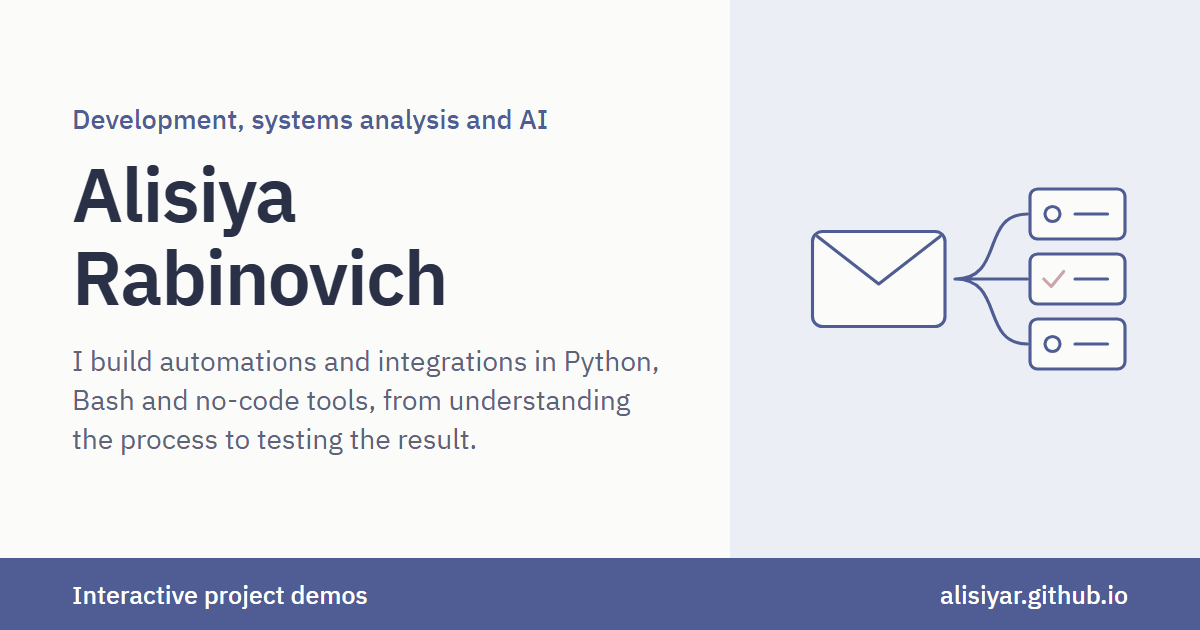
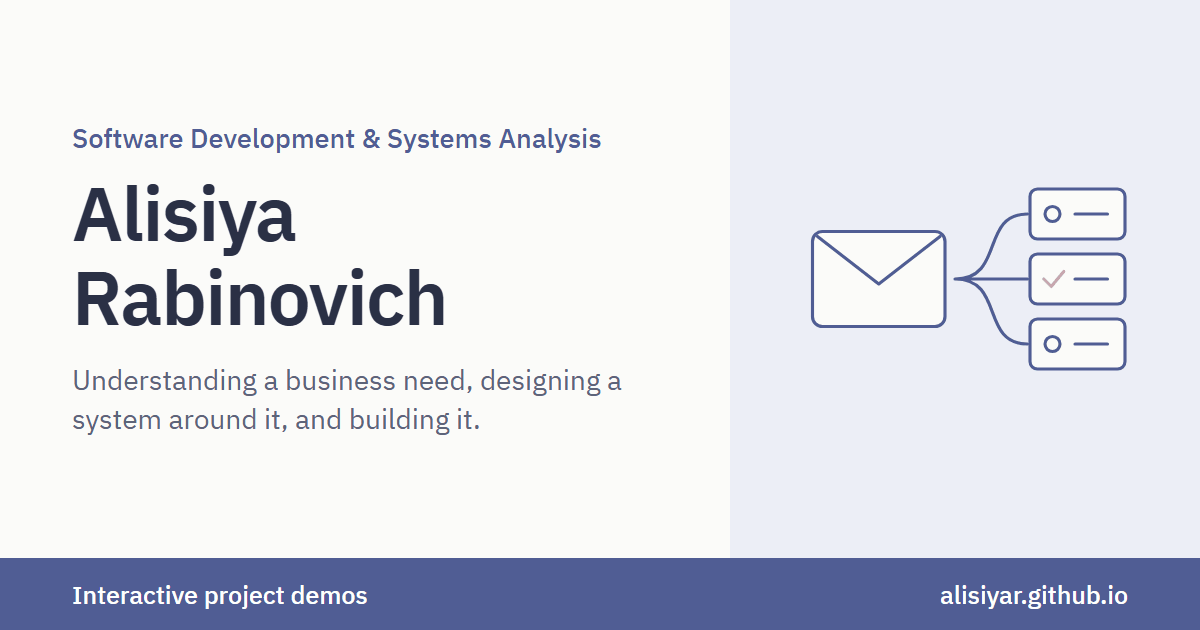
Update headline, intro, about and Heido problem text

Changed region(s): [[0.0617, 0.5429, 0.555, 0.7238], [0.0617, 0.2714, 0.37, 0.5127], [0.0617, 0.181, 0.5242, 0.2413]]

diff --git a/js/content.js b/js/content.js
@@ -4,12 +4,12 @@
 window.SITE = {
   name: { he: "אליסיה רבינוביץ", en: "Alisiya Rabinovich" },
   headline: {
-    he: "פיתוח, ניתוח מערכות ו-AI",
-    en: "Development, systems analysis and AI"
+    he: "פיתוח תוכנה וניתוח מערכות",
+    en: "Software Development & Systems Analysis"
   },
   intro: {
-    he: "אני בונה אוטומציות ואינטגרציות ב-Python, ב-Bash ובכלי No-Code, מהבנת התהליך ועד בדיקת התוצאה. תואר ראשון בניהול מערכות מידע (ממוצע 89), בהתמחות סייבר.",
-    en: "I build automations and integrations in Python, Bash and no-code tools, from understanding the process to testing the result. B.A. in Management Information Systems (GPA 89), with a cybersecurity specialization."
+    he: "תיק העבודות שלי מרכז פרויקטים בפיתוח תוכנה ובניתוח מערכות, עם דמואים אינטראקטיביים והצצה להחלטות התכנון שמאחורי כל פרויקט. כבוגרת ניהול מערכות מידע, מעניין אותי במיוחד איך צורך עסקי הופך למערכת עובדת.",
+    en: "My portfolio brings together projects in software development and systems analysis, with interactive demos and a look at the design decisions behind each project. As a Management Information Systems graduate, I’m especially interested in how a business need becomes a working system."
   },
   links: {
     github: "https://github.com/AlisiyaR",
@@ -61,8 +61,14 @@ window.SITE = {
         lookLabel: { he: "על המיילים בדמו", en: "About the emails" },
         look: { he: "כל המיילים בדמו סווגו במערכת האמיתית במהלך הבדיקות, וארבעה מהם מסומנים כבדיקות של מקרי קצה. הסיווג נעשה על ידי AI, ולכן התוצאה עשויה להשתנות בין הרצות.", en: "Every email in this demo was classified by the real system during testing, and four are marked as edge-case tests. Because an AI does the classification, results can vary between runs." },
         problem: {
-          he: ["בצוותי תמיכה רבים ממיינים כל מייל ידנית. זה איטי ולא אחיד, ופנייה דחופה יכולה לחכות מאחורי בקשות שגרתיות.", "הצורך העסקי רחב יותר ממיון: אפשר לייעל את כל תהליך קבלת הפניות. מענה מהיר במייל יכול לעודד לקוחות לבחור בו במקום בטלפון, ב-WhatsApp, בפקס או בדואר. בטווח הארוך, ריכוז התקשורת בערוץ אחד יכול לחסוך זמן לצוות התמיכה וכסף ללקוח."],
-          en: ["Many support teams sort every email by hand. It is slow and inconsistent, and an urgent issue can wait behind routine requests.", "The business need goes beyond sorting: the whole intake process can be more efficient. Fast handling by email can encourage customers to choose it over phone calls, WhatsApp, fax or post. Over time, moving communication to one channel could save the support team time and the customer money."]
+          he: [
+            "הרעיון ל-Heido נולד מהניסיון שלי בתמיכת לקוחות. פניות הגיעו בטלפון, ב-WhatsApp ובפקס. העובדים היו צריכים לתעד כל פנייה, להעריך את הדחיפות שלה ולהחליט איזה צוות יטפל בה. עם תחלופה גבוהה של עובדים, היה קשה לשמור על אחידות בהחלטות האלה. פנייה שנשלחה לצוות הלא נכון הייתה צריכה להיבדק ולעבור ניתוב מחדש, מה שהוסיף עומס על הצוות והשאיר את הלקוח ממתין זמן רב יותר. גם בעיה דחופה יכלה לחכות מאחורי בקשות שגרתיות אם ההשפעה שלה לא הייתה ברורה במבט ראשון.",
+            "ראיתי הזדמנות לשפר את כל התהליך, החל מהמייל. לקוח יוכל לתאר את הבעיה פעם אחת ולקבל מספר פנייה, בזמן שהמערכת מסכמת את הפנייה, מעריכה את העדיפות שלה ומנתבת אותה לצוות המתאים. אם המייל יהפוך לדרך מהירה ואמינה יותר לקבל עזרה, ייתכן שיותר לקוחות יעדיפו אותו על פני שיחה או שליחת הודעת WhatsApp, פקס או מכתב. לאורך זמן, זה יכול להפחית את העבודה הידנית של צוות התמיכה ולחסוך ללקוחות את הזמן ואת ההוצאה של מעקב אחר הפנייה."
+          ],
+          en: [
+            "The idea for Heido came from my experience in customer support. Requests came in by phone, WhatsApp, and fax. Employees had to log each one, assess its urgency, and decide which team should handle it. With frequent staff turnover, it was difficult to keep those decisions consistent. A request sent to the wrong team had to be reviewed and routed again, adding to the team’s workload and leaving the customer waiting longer. An urgent issue could also sit behind routine requests if its impact wasn’t clear at first glance.",
+            "I saw an opportunity to improve the whole process, starting with email. A customer could describe the issue once and receive a ticket number, while the system summarized the request, assessed its priority, and routed it to the right team. If email became a faster, more reliable way to get help, more customers might choose it over calling or sending a WhatsApp message, fax, or letter. Over time, that could reduce manual work for the support team and save customers the time and expense of following up."
+          ]
         },
         did: {
           he: [
@@ -297,13 +303,21 @@ window.SITE = {
 
   about: {
     he: [
-      "אני אוהבת להבין איך מערכות ותהליכים עובדים, למצוא איפה הם נתקעים ולבנות פתרונות טובים יותר. ב-Bynet Semech נכנסתי לתפקיד שלא היה מאויש ובניתי את תהליכי העבודה והנהלים שלו מאפס, תוך כדי התואר.",
-      "התואר והתמחות הסייבר נתנו לי בסיס בתכנות מונחה עצמים, SQL, Linux ורשתות. אני לומדת מהר ובאופן עצמאי, ופתוחה לתפקידי ג'וניור בפיתוח, באוטומציה, ב-AI ובניתוח מערכות."
+      "פיתוח תוכנה וניתוח מערכות היו המקצועות האהובים עליי בתואר הראשון בניהול מערכות מידע. לצד יסודות התכנות למדתי ניתוח מערכות, עיצוב חוויית משתמש, ניתוח נתונים, אבטחת מידע וניהול פרויקטים. יחד, המקצועות האלה עיצבו את הדרך שבה אני ניגשת למערכת חדשה. אני מתחילה ממה שהמשתמש מנסה להשיג, ואז בודקת אילו נתונים הוא צריך ולמי צריכה להיות גישה אליהם. משם אני מתכננת את הפרויקט ומחלקת את העבודה לשלבי פיתוח.",
+      "במהלך הלימודים עבדתי בתמיכה טכנית ותפעולית ב-Bynet Semech. זיהיתי דפוסים בפניות חוזרות ופיתחתי נהלים לטיפול בהן בין הצוותים. הניסיון הזה עדיין משפיע על הדרך שבה אני ניגשת לפרויקטים שלי. אני רוצה להבין איך אנשים עובדים בפועל, איפה הם נתקלים בקשיים, ומה המערכת צריכה לעשות כדי לעזור."
     ],
     en: [
-      "I enjoy understanding how systems and processes work, finding where they break and building better solutions. At Bynet Semech, I stepped into an unstaffed role and built its workflows and procedures from scratch while studying for my degree.",
-      "My degree and cybersecurity specialization gave me a foundation in object-oriented programming, SQL, Linux and networking. I learn fast and independently, and I'm open to junior roles in development, automation, AI and systems analysis."
+      "Software development and systems analysis were my favorite subjects during my B.A. in Management Information Systems. Alongside programming fundamentals, I studied systems analysis, UX design, data analysis, information security, and project management. Together, these subjects shaped how I approach a new system. I start with what the user is trying to accomplish, then consider what data they need and who should have access to it. From there, I plan the project and organize the work into development phases.",
+      "While studying, I worked in technical and operational support at Bynet Semech. I noticed patterns in recurring requests and developed procedures for handling them across teams. That experience still influences how I approach my own projects. I want to understand how people actually do their work, where they run into difficulties, and what a system needs to do to help."
     ]
+  },
+  looking: {
+    he: "אני מחפשת תפקיד ג'וניור בפיתוח תוכנה או בניתוח מערכות. מעניינות אותי במיוחד הזדמנויות שבהן אוכל לעבוד עם משתמשים כדי להבין צורך עסקי, לעזור לעצב את הדרישות ולהישאר מעורבת בזמן שהתוכנה נבנית.",
+    en: "I’m looking for a junior role in software development or systems analysis. I’m especially interested in opportunities where I can work with users to understand a business need, help shape the requirements, and stay involved as the software is built."
+  },
+  closing: {
+    he: "אם אתם מגייסים לתפקיד ג'וניור בפיתוח תוכנה או בניתוח מערכות, אשמח לשמוע על הצוות ועל מה שאתם בונים.",
+    en: "If you’re hiring for a junior software development or systems analysis role, I’d be happy to hear about the team and what you’re building."
   },
   how: [
     { label: { he: "מתחילה מהבעיה", en: "I start with the problem" },
@@ -344,9 +358,8 @@ window.SITE = {
       note: { he: "סריקת רשתות, בדיקות חדירה, מיפוי פגיעויות והדמיית תקיפות. במהלך ההתמחות בניתי שלושה כלי אוטומציה ב-Bash.", en: "Network scanning, penetration testing, vulnerability mapping and attack simulation. I built three Bash automation tools during the specialization." } }
   ],
   site: [
-    { label: { he: "בלי מפתחות API", en: "No API keys" }, text: { he: "אתר סטטי לא יכול להסתיר סוד, ולכן אף דמו לא משתמש במפתח. מזג האוויר מגיע מ-Open-Meteo, שלא דורש מפתח.", en: "A static site cannot hide a secret, so no demo uses a key. The weather comes from Open-Meteo, which needs none." } },
-    { label: { he: "בלי סריקות אמיתיות", en: "No real scans" }, text: { he: "המסוף מציג תוצאות של רשת בדיונית, ותשובות ה-AI נשמרו מהבדיקות.", en: "The terminal shows results for a fictional network, and the AI answers were saved from testing." } },
-    { label: { he: "איך נבנה", en: "How it was made" }, text: { he: "HTML, CSS ו-JavaScript בלי ספריות, בעזרת Claude.", en: "Plain HTML, CSS and JavaScript with no framework, with the help of Claude." } }
+    { label: { he: "תיק העבודות", en: "The portfolio" }, text: { he: "בניתי את תיק העבודות הדו-לשוני הזה ב-HTML, ב-CSS וב-JavaScript, בעזרת Claude. הדמואים מאפשרים למבקרים להכיר את העבודה ישירות בדפדפן.", en: "I built this bilingual portfolio with HTML, CSS, and JavaScript, with assistance from Claude. The project demos let visitors explore the work directly in their browser." } },
+    { label: { he: "הדמואים", en: "The demos" }, text: { he: "דמו מזג האוויר משתמש בנתונים חיים מ-Open-Meteo. הדמו של Heido משתמש בתשובות של המודל שנשמרו במהלך הבדיקות, כך שאפשר להשוות את ההחלטות שלכם לתוצאות שבדקתי. דמו הסייבר משתמש ברשת מדומה.", en: "The weather demo uses live data from Open-Meteo. The Heido demo uses model responses saved during testing, so you can compare your decisions with the results I evaluated. The cybersecurity demo uses a simulated network." } }
   ],
   experience: [
     { when: "2023–2026", what: { he: "נציגת Back Office, תמיכה טכנית ותפעולית, Bynet Semech (משרה חלקית)", en: "Back Office Representative, technical and operational support, Bynet Semech (part-time)" },

diff --git a/js/site.js b/js/site.js
@@ -2,8 +2,8 @@
   const S = window.SITE;
   const LOCAL = ["localhost", "127.0.0.1"].includes(location.hostname); // באתר המפורסם פסקאות זמניות ב"עליי" מוסתרות
   const UI = {
-    he: { projects: "פרויקטים", about: "עליי", how: "איך אני עובדת", skills: "כישורים", edu: "השכלה", exp: "ניסיון תעסוקתי", site: "איך האתר נבנה", contact: "יצירת קשר", github: "GitHub", linkedin: "LinkedIn", cv: "קורות חיים", email: "אימייל", copy: "העתקת כתובת המייל", copied: "הועתק", manual: "הכתובת סומנה, העתיקו עם Ctrl+C", try: "לנסות את הדמו", view: "לעמוד הפרויקט", soon: "הדמו בהכנה", back: "לכל הפרויקטים", full: "פתיחה בחלון מלא", demo: "דמו", missing: "הפרויקט לא נמצא", add: "קישור יתווסף", light: "מצב בהיר", dark: "מצב כהה", other: "English", nav: "ניווט", menu: "תפריט", see: "לפרויקטים", shows: "מה זה מראה", result: "תוצאה", next: "הפרויקט הבא", more: "רוצים לדעת עוד?", skip: "דילוג לתוכן", task: "משימה", priority: "עדיפות", assigned: "עובד", type: "סוג", role: "התפקיד שלי", when: "מתי", glance: "במבט אחד", look: "על הדמו", problem: "הבעיה", goal: "המטרה", did: "מה עשיתי", trace: "דרישה אחת, מהצורך ועד המשימות", decisions: "החלטות", instead: "במקום", why: "למה", source: "המקור", tested: "איך בדקתי", catacc: "קטגוריה ועובד", prio: "עדיפות", version: "גרסת פרומפט", hit: "נכון", miss: "טעות", limits: "תקלות, מגבלות והצעד הבא", shotsTitle: "צילומים", diagrams: "תרשימי UML", video: "סרטון של אב-הטיפוס", close: "סגירה", prev: "הקודם", nextImg: "הבא" },
-    en: { projects: "Projects", about: "About", how: "How I work", skills: "Skills", edu: "Education", exp: "Work experience", site: "How this site was built", contact: "Contact", github: "GitHub", linkedin: "LinkedIn", cv: "CV", email: "Email", copy: "Copy email address", copied: "Copied", manual: "Address selected, copy with Ctrl+C", try: "Try the demo", view: "View project", soon: "Demo in progress", back: "All projects", full: "Open full page", demo: "Demo", missing: "Project not found", add: "Link coming", light: "Light mode", dark: "Dark mode", other: "עברית", nav: "Navigation", menu: "Menu", see: "See the projects", shows: "What it shows", result: "Result", next: "Next project", more: "Want to know more?", skip: "Skip to content", task: "Task", priority: "Priority", assigned: "Assigned to", type: "Type", role: "My role", when: "When", glance: "At a glance", look: "About the demo", problem: "The problem", goal: "The goal", did: "What I did", trace: "One requirement, from the need to the tasks", decisions: "Decisions", instead: "Instead of", why: "Why", source: "Source", tested: "How I tested it", catacc: "Category and employee", prio: "Priority", version: "Prompt version", hit: "Right", miss: "Missed", limits: "Problems, limits and next steps", shotsTitle: "Screenshots", diagrams: "UML diagrams", video: "Video of the prototype", close: "Close", prev: "Previous", nextImg: "Next" }
+    he: { projects: "פרויקטים", about: "עליי", how: "איך אני עובדת", skills: "כישורים", edu: "השכלה", exp: "ניסיון תעסוקתי", site: "על האתר", looking: "מה אני מחפשת", contact: "יצירת קשר", github: "GitHub", linkedin: "LinkedIn", cv: "קורות חיים", email: "אימייל", copy: "העתקת כתובת המייל", copied: "הועתק", manual: "הכתובת סומנה, העתיקו עם Ctrl+C", try: "לנסות את הדמו", view: "לעמוד הפרויקט", soon: "הדמו בהכנה", back: "לכל הפרויקטים", full: "פתיחה בחלון מלא", demo: "דמו", missing: "הפרויקט לא נמצא", add: "קישור יתווסף", light: "מצב בהיר", dark: "מצב כהה", other: "English", nav: "ניווט", menu: "תפריט", see: "לפרויקטים", shows: "מה זה מראה", result: "תוצאה", next: "הפרויקט הבא", more: "רוצים לדעת עוד?", skip: "דילוג לתוכן", task: "משימה", priority: "עדיפות", assigned: "עובד", type: "סוג", role: "התפקיד שלי", when: "מתי", glance: "במבט אחד", look: "על הדמו", problem: "הבעיה", goal: "המטרה", did: "מה עשיתי", trace: "דרישה אחת, מהצורך ועד המשימות", decisions: "החלטות", instead: "במקום", why: "למה", source: "המקור", tested: "איך בדקתי", catacc: "קטגוריה ועובד", prio: "עדיפות", version: "גרסת פרומפט", hit: "נכון", miss: "טעות", limits: "תקלות, מגבלות והצעד הבא", shotsTitle: "צילומים", diagrams: "תרשימי UML", video: "סרטון של אב-הטיפוס", close: "סגירה", prev: "הקודם", nextImg: "הבא" },
+    en: { projects: "Projects", about: "About", how: "How I work", skills: "Skills", edu: "Education", exp: "Work experience", site: "About this site", looking: "Looking for", contact: "Contact", github: "GitHub", linkedin: "LinkedIn", cv: "CV", email: "Email", copy: "Copy email address", copied: "Copied", manual: "Address selected, copy with Ctrl+C", try: "Try the demo", view: "View project", soon: "Demo in progress", back: "All projects", full: "Open full page", demo: "Demo", missing: "Project not found", add: "Link coming", light: "Light mode", dark: "Dark mode", other: "עברית", nav: "Navigation", menu: "Menu", see: "See the projects", shows: "What it shows", result: "Result", next: "Next project", more: "Want to know more?", skip: "Skip to content", task: "Task", priority: "Priority", assigned: "Assigned to", type: "Type", role: "My role", when: "When", glance: "At a glance", look: "About the demo", problem: "The problem", goal: "The goal", did: "What I did", trace: "One requirement, from the need to the tasks", decisions: "Decisions", instead: "Instead of", why: "Why", source: "Source", tested: "How I tested it", catacc: "Category and employee", prio: "Priority", version: "Prompt version", hit: "Right", miss: "Missed", limits: "Problems, limits and next steps", shotsTitle: "Screenshots", diagrams: "UML diagrams", video: "Video of the prototype", close: "Close", prev: "Previous", nextImg: "Next" }
   };
   const store = {
     get(k) { try { return localStorage.getItem(k); } catch { return null; } },
@@ -205,12 +205,13 @@
           links(), h("a", { class: "btn main go", href: "#projects" }, u.see, icon("down")))),
       section("projects", card(S.projects[0], 0), h("div", { class: "cards" }, S.projects.slice(1).map((p, i) => card(p, i + 1)))),
       section("about", S.about[lang].filter(x => LOCAL || !x.startsWith("[")).map(x => h("p", {}, txt(x)))),
+      S.looking ? section("looking", h("p", {}, txt(S.looking))) : null,
       section("how", h("dl", {}, (S.how || []).flatMap(s => [h("dt", {}, tr(s.label)), h("dd", {}, txt(s.text))]))),
       section("skills", S.proofNote ? h("p", { class: "note" }, txt(S.proofNote)) : null, h("dl", {}, S.skills.flatMap(s => [h("dt", {}, tr(s.label)), h("dd", {}, skill(s.items))]))),
       section("edu", timeline(S.education)),
       section("exp", timeline(S.experience)),
       section("site", h("dl", {}, (S.site || []).flatMap(s => [h("dt", {}, tr(s.label)), h("dd", {}, txt(s.text))]))),
-      section("contact", links()));
+      section("contact", S.closing ? h("p", { class: "closing" }, txt(S.closing)) : null, links()));
   }
 
   const jump = () => { if (location.hash) document.getElementById(location.hash.slice(1))?.scrollIntoView({ behavior: "instant" }); };

diff --git a/js/edit.js b/js/edit.js
@@ -38,7 +38,9 @@
     pair("איך אני עובדת", `how.${i}.text`, `פירוט ${i + 1}`, s.text);
   });
   pair("כישורים", "proofNote", "הערה מעל הרשימה", S.proofNote);
-  S.site.forEach((s, i) => { pair("איך האתר נבנה", `site.${i}.label`, `נושא ${i + 1}`, s.label); pair("איך האתר נבנה", `site.${i}.text`, `פירוט ${i + 1}`, s.text); });
+  pair("עליי", "looking", "מה אני מחפשת", S.looking);
+  pair("יצירת קשר", "closing", "משפט סיום", S.closing);
+  S.site.forEach((s, i) => { pair("על האתר", `site.${i}.label`, `נושא ${i + 1}`, s.label); pair("על האתר", `site.${i}.text`, `פירוט ${i + 1}`, s.text); });
   S.skills.forEach((s, i) => {
     pair("כישורים", `skills.${i}.label`, `נושא ${i + 1}`, s.label);
     flat("כישורים", `skills.${i}.items`, `פירוט ${i + 1}`, s, "items");
@@ -48,7 +50,7 @@
     pair(g, `${k}.${i}.what`, `${what} ${i + 1}`, s.what);
     if (s.note) pair(g, `${k}.${i}.note`, `פירוט ${i + 1}`, s.note);
   });
-  const NAMES = { projects: "כותרת: פרויקטים", about: "כותרת: עליי", how: "כותרת: איך אני עובדת", skills: "כותרת: כישורים", edu: "כותרת: השכלה", exp: "כותרת: ניסיון", contact: "כותרת: יצירת קשר", cv: "כפתור: קורות חיים", see: "כפתור: לפרויקטים", try: "כפתור: דמו", back: "קישור: חזרה", full: "קישור: חלון מלא", demo: "כותרת: דמו" };
+  const NAMES = { projects: "כותרת: פרויקטים", about: "כותרת: עליי", how: "כותרת: איך אני עובדת", looking: "כותרת: מה אני מחפשת", skills: "כותרת: כישורים", edu: "כותרת: השכלה", exp: "כותרת: ניסיון", contact: "כותרת: יצירת קשר", cv: "כפתור: קורות חיים", see: "כפתור: לפרויקטים", try: "כפתור: דמו", back: "קישור: חזרה", full: "קישור: חלון מלא", demo: "כותרת: דמו" };
   for (const k in NAMES) add("כותרות וכפתורים", `ui.${k}`, NAMES[k], () => ({ he: UI.he[k], en: UI.en[k] }), (l, v) => { UI[l][k] = v; });
 
   // שינויים שמורים. אם הטקסט בקובץ כבר התעדכן, השינוי הישן נזרק.

diff --git a/index.html b/index.html
@@ -4,13 +4,13 @@
 <meta charset="utf-8">
 <meta name="viewport" content="width=device-width, initial-scale=1">
 <meta name="theme-color" content="#505d94">
-<title>Alisiya Rabinovich | Development, systems analysis and AI</title>
-<meta name="description" content="I build automations and integrations in Python, Bash and no-code tools, from understanding the process to testing the result. Portfolio with interactive project demos.">
+<title>Alisiya Rabinovich | Software Development &amp; Systems Analysis</title>
+<meta name="description" content="Software development and systems analysis: understanding a business need, designing a system around it, and building it. Portfolio with interactive project demos.">
 <link rel="canonical" href="https://alisiyar.github.io/">
 <meta property="og:type" content="website">
 <meta property="og:site_name" content="Alisiya Rabinovich">
-<meta property="og:title" content="Alisiya Rabinovich | Development, systems analysis and AI">
-<meta property="og:description" content="I build automations and integrations in Python, Bash and no-code tools, from understanding the process to testing the result. Portfolio with interactive project demos.">
+<meta property="og:title" content="Alisiya Rabinovich | Software Development &amp; Systems Analysis">
+<meta property="og:description" content="Software development and systems analysis: understanding a business need, designing a system around it, and building it. Portfolio with interactive project demos.">
 <meta property="og:url" content="https://alisiyar.github.io/">
 <meta property="og:image" content="https://alisiyar.github.io/assets/og/home.png">
 <meta property="og:image:width" content="1200">

diff --git a/css/style.css b/css/style.css
@@ -37,6 +37,7 @@ button:hover{background:var(--panel);color:var(--ink)}
 
 /* המשחקון של Heido */
 .go{margin-top:1.1rem}
+.closing{margin-bottom:1.5rem}
 
 .tz{overflow-anchor:none;background:var(--panel);padding:1.4rem 1.5rem 1.1rem}
 .tz h3,.feature .tz h3{font-size:1.35rem;margin:0}
